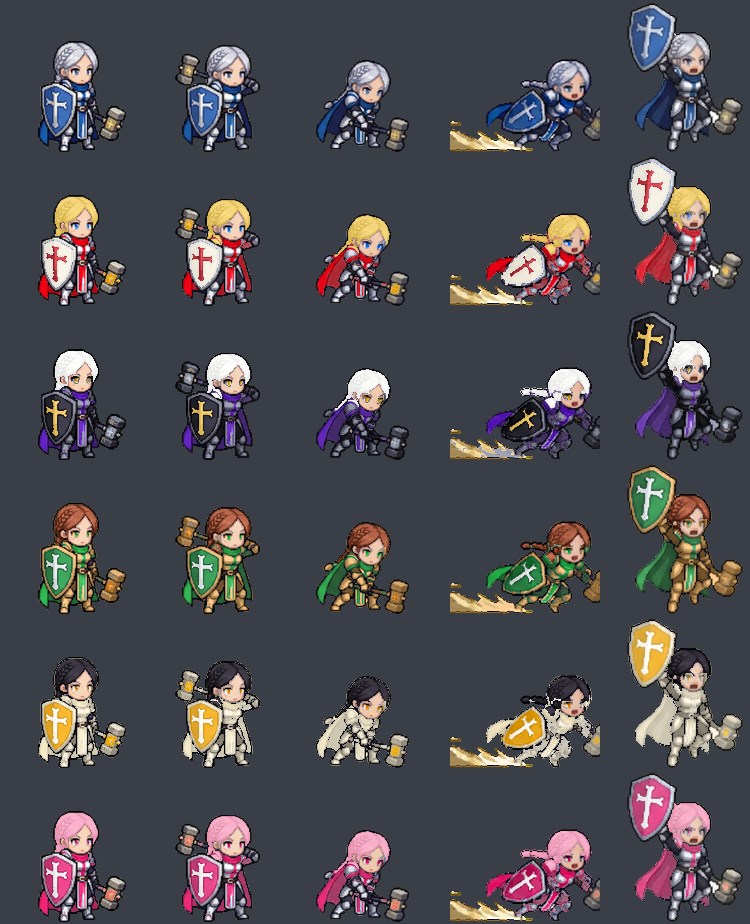
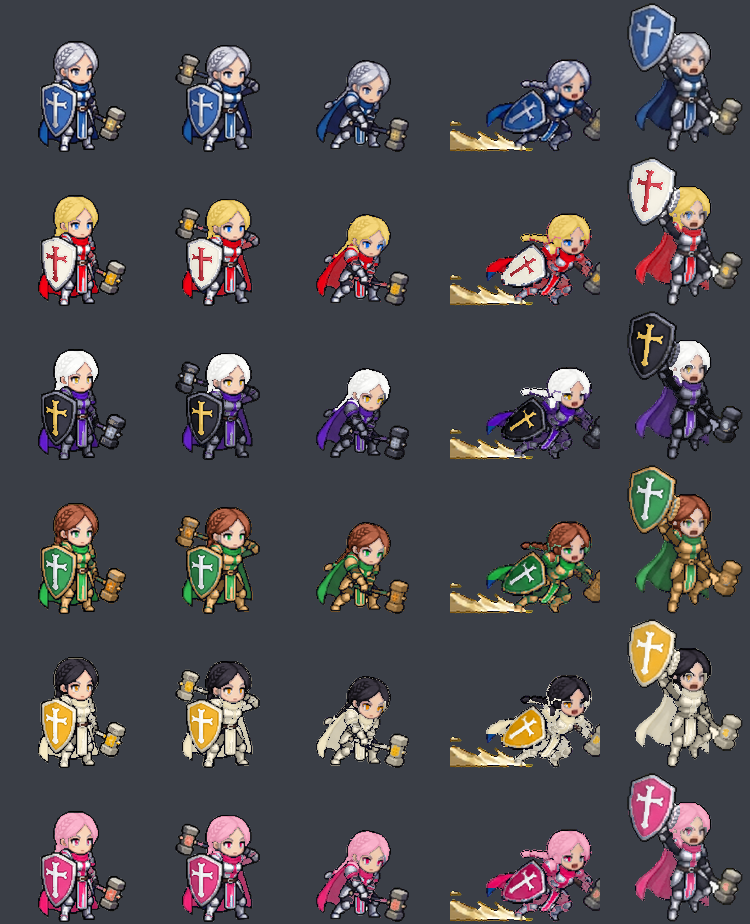
Paladin skins: every frame now splits like the idle frame. Shield's lit face (low-saturation sky blue, same tint as the armor) is taken from the outline-enclosed shield interior inside the blue blob's vertical span, so the raised shield (aegis release) no longer keeps a silver corner; deep navy-viol

diff --git a/tools/paladin_variants_build.py b/tools/paladin_variants_build.py
@@ -29,6 +29,7 @@ HAIR_SEEDS = {12: [(155, 47), (136, 70)]}   # 12 정수리·왼팔 옆으로 늘
 # 마디마다 어두운 선으로 끊겨 조각이 많은 땋은 머리: 이 상자 (x0, y0, x1, y1) 안 은색·회색은 모두 머리 (16 돌격 때 뒤로 날리는 땋은 머리)
 HAIR_BOXES = {16: [(131, 79, 158, 88)]}
 GOLD_XMIN = {16: 150}            # 돌격 칸의 흙먼지 꼬리(금빛 모래색)는 망치 장식이 아님 → 이 x보다 오른쪽 금색만
+DUST_RECTS = {16: [(0, 118, 105, 131), (0, 131, 123, 154), (0, 149, 150, 154)]}   # 흙먼지 꼬리 (x0, y0, x1, y1): 회백색 알갱이까지 어느 부위에도 안 넣음
 CLOSED_EYES = {5, 6, 7, 8, 17}   # 눈 감은 칸 (피격·쓰러짐·축성 기도): 눈동자가 없음 (이마 옆 푸른빛 머리카락을 눈으로 잡지 않게)
 DIM_EYES = {18, 19}              # 불굴의 가호 칸: 눈동자가 흐린 회청색이라 채도 0.21까지 눈으로 봄 (다른 칸은 0.3)
 EYE_KEEP = {18: [(166, 65, 176, 73)], 19: [(167, 57, 176, 65)]}  # 옆머리와 어두운 픽셀로 이어진 회색 눈 (x0, y0, x1, y1) → 머리색을 입히지 않음
@@ -87,12 +88,28 @@ def seg(f, idx=None):
     gold = A & (h > 28) & (h < 62) & (s > 0.28) & (v > 0.3)
     dust = gold & (XX < GOLD_XMIN[idx]) if idx in GOLD_XMIN else np.zeros_like(A)
     gold &= ~dust
-    R = A & ~outline & ~skin & ~blue & ~gold & ~dust
     lab, n = ndi.label(skin, K8)
-    face = None
+    face = None; facez = np.zeros_like(A)
     if n:
         sz = ndi.sum(skin, lab, range(1, n + 1)); face = lab == (1 + int(np.argmax(sz)))
+        facez = hull_fill(face)
+        gold &= ~ndi.binary_dilation(facez, K8, iterations=2)   # 입·볼의 주황 점은 망치 장식이 아님
+    # 망토·앞자락 깊은 그늘은 남보라 쪽 (안 넣으면 빨간 망토에 남색 그늘이 남음). 얼굴 안(입 속·속눈썹)은 뺌
+    blue |= A & (h >= 245) & (h < 265) & (s > 0.25) & (v < 0.4) & ~outline & ~facez
+    R = A & ~outline & ~skin & ~blue & ~gold & ~dust
     shield = pick_shield(blue, v, A)
+    if shield.any():
+        # 방패의 밝은 면(채도 낮은 하늘빛)은 갑옷과 색이 같아서, 검은 윤곽으로 둘러싸인 방패 안쪽 중 윤곽에서 2px 넘게 떨어진 곳을 방패로
+        #   (가장자리 2px 은 테두리는 갑옷, 파란 덩어리 안 구멍 = 십자는 뺌)
+        holes = ndi.binary_fill_holes(shield) & ~shield
+        le, ne = ndi.label(A & ~outline & ~skin, K4)
+        ids = np.unique(le[shield]); ids = ids[ids > 0]
+        if len(ids):
+            sy, sx = np.where(shield)   # 파란 덩어리의 세로 범위 안, 옆으로 9px까지만 (더 넓히면 방패 아래 발까지 들어왔음)
+            near = ndi.binary_dilation(shield, K8, iterations=9) & (YY >= sy.min() - 2) & (YY <= sy.max())
+            enc = (le == ids[np.argmax([(shield & (le == j)).sum() for j in ids])]) & near
+            edge = enc & ndi.binary_dilation(~enc, K8, iterations=2)
+            shield |= enc & ~edge & ~holes & (s < 0.35) & (v > 0.4) & (h > 190) & (h < 255)
     sh_full = ndi.binary_fill_holes(shield) if shield.any() else shield
     cross = sh_full & ~shield & A & ~outline
     eyes = np.zeros_like(A); hair = np.zeros_like(A)
@@ -152,7 +169,10 @@ def seg(f, idx=None):
         if hair[ring].mean() >= 0.5: hair |= c
         elif (R & ~hair & (s < 0.3))[ring].mean() >= 0.5: blue &= ~c; R |= c
     cape = blue & ~shield & ~eyes & ~hair
-    armor = R & ~hair & ~eyes & ~cross & ((s < 0.3) | (blue_spec := (h > 195) & (h < 245)))   # 은색 금속: 채도 낮은 것만 (허리띠·장갑 가죽 갈색은 그대로) + 위에서 넘긴 파란 점
+    armor = R & ~hair & ~eyes & ~cross & ~shield & ((s < 0.3) | ((h > 195) & (h < 245)))   # 은색 금속: 채도 낮은 것만 (허리띠·장갑 가죽 갈색은 그대로) + 위에서 넘긴 파란 점
+    armor &= ~(facez & ~ndi.binary_dilation(hair, K8))   # 얼굴 안 흰자·이·그늘은 그대로 (머리 바로 옆 픽셀은 머리 가장자리라 둠)
+    for x0, y0, x1, y1 in DUST_RECTS.get(idx, []):
+        for mm in (hair, eyes, armor, cape, shield, cross, gold): mm[y0:y1 + 1, x0:x1 + 1] = False
     return {'hair': hair, 'eyes': eyes, 'armor': armor, 'cape': cape, 'shield': shield, 'cross': cross, 'gold': gold, 'hsv': (h, s, v)}
 
 
